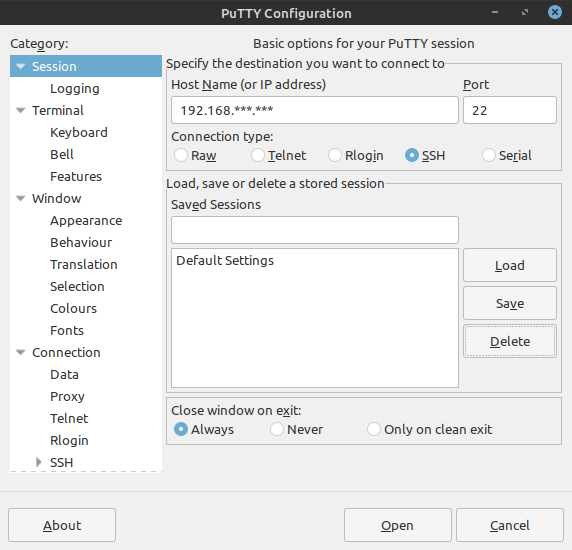
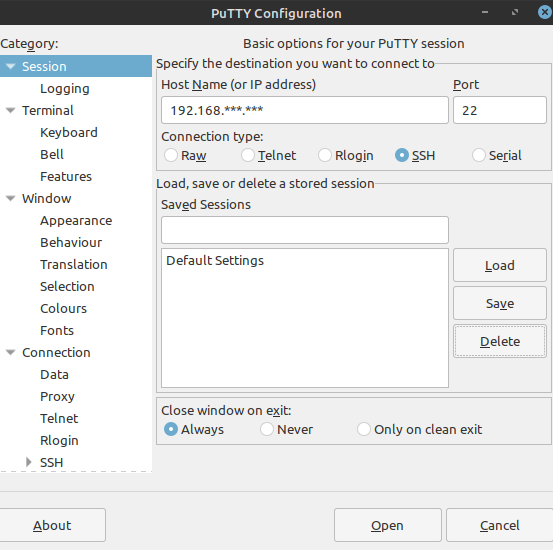
add image

diff --git a/_includes/featured-image.html b/_includes/featured-image.html
@@ -2,9 +2,9 @@
 {%- if page.image %}
 <div class="entry-featured-image">
     {%- if page.imageshadow %}
-    {%- if page.image contains "://" %}{{ page.image }}{%- else %}{%- picture post posts/{{ page.guid }}/{{ page.image }} 235:132 --alt {{ page.title }} --img width="940" height="528" class="featured-image image-shadow" itemprop="image" %}{%- endif %}
+    {%- if page.image contains "://" %}{{ page.image }}{%- else %}{% picture post posts/{{ page.guid }}/{{ page.image }} 235:132 --alt {{ page.title }} --img width="940" height="528" class="featured-image image-shadow" itemprop="image" %}{%- endif %}
     {%- else %}
-    {%- if page.image contains "://" %}{{ page.image }}{%- else %}{%- picture post posts/{{ page.guid }}/{{ page.image }} 235:132 --alt {{ page.title }} --img width="940" height="528" class="featured-image" itemprop="image" %}{%- endif %}
+    {%- if page.image contains "://" %}{{ page.image }}{%- else %}{% picture post posts/{{ page.guid }}/{{ page.image }} 235:132 --alt {{ page.title }} --img width="940" height="528" class="featured-image" itemprop="image" %}{%- endif %}
     {%- endif %}
 </div>
 {%- endif %}
@@ -12,9 +12,9 @@
 {%- if page.image %}
 <div class="entry-featured-image">
 {%- if page.imageshadow %}
-{%- if page.image contains "://" %}{{ page.image }}{%- else %}{%- picture shop shop/{{ page.guid }}/{{ page.image }} 1:1 --alt {{ page.title }} --img width="444" height="444" class="featured-image image-shadow" style="width:550px; height:auto;" itemprop="image" %}{%- endif %}
+{%- if page.image contains "://" %}{{ page.image }}{%- else %}{% picture shop shop/{{ page.guid }}/{{ page.image }} 1:1 --alt {{ page.title }} --img width="444" height="444" class="featured-image image-shadow" itemprop="image" %}{%- endif %}
 {%- else %}
-{%- if page.image contains "://" %}{{ page.image }}{%- else %}{%- picture shop shop/{{ page.guid }}/{{ page.image }} 1:1 --alt {{ page.title }} --img width="444" height="444" class="featured-image" itemprop="image" %}{%- endif %}
+{%- if page.image contains "://" %}{{ page.image }}{%- else %}{% picture shop shop/{{ page.guid }}/{{ page.image }} 1:1 --alt {{ page.title }} --img width="444" height="444" class="featured-image" itemprop="image" %}{%- endif %}
 {%- endif %}
 </div>
 {%- endif %}

diff --git a/_includes/product-image.html b/_includes/product-image.html
@@ -1,15 +1,15 @@
 <div class="productbox">
     <div class="product-small-img">
       {%- for item in page.images | limit:5 %}
-  {%- picture shop shop/{{ page.guid }}/{{ item.image }} --alt {{ item.title }} --img class="gallery-image" itemprop="image" %}
+  {% picture shop shop/{{ page.guid }}/{{ item.image }} --alt {{ item.title }} --img class="gallery-image" itemprop="image" %}
 {%- endfor %}  
     </div>
   <div class="img-product-container">
     {%- for item in page.images | offset:0 limit:1 %}
     {%- if page.imageshadow %}
-    {%- picture shop shop/{{ page.guid }}/{{ item.image }} --alt {{ item.title }} --img id="imageBox" class="image-shadow" style="width:400px; height:auto;" itemprop="image" %}
+    {% picture shop shop/{{ page.guid }}/{{ item.image }} --alt {{ item.title }} --img id="imageBox" class="image-shadow" style="width:400px; height:auto;" itemprop="image" %}
 {%- else %}
-{%- picture shop shop/{{ page.guid }}/{{ item.image }} --alt {{ item.title }} --img id="imageBox" style="width:425px; height:auto;" itemprop="image" %}
+{% picture shop shop/{{ page.guid }}/{{ item.image }} --alt {{ item.title }} --img id="imageBox" style="width:425px; height:auto;" itemprop="image" %}
 {%- endif %}
     {%- endfor %}
   </div>

diff --git a/_data/aliexpress/data.js b/_data/aliexpress/data.js
@@ -21,7 +21,7 @@ module.exports = [
   '1005001874391490',    // 2115 airlink amp v4
   '1005002617485357',    // 2116 Grandir R503
   '1005002782331110',    // 2122 neocollcam z-wave interrupteur
-  '1005002610639133',    // 2124 ecran spi      
+  '33015586094',         // 2124 ecran spi      
   '4000274394108',       // 2125 ventilateur raspberrypi
   '1005002055766609',    // 2126 eviciv ecran 10pouces raspberrypi
   '4000552781660',       // 2119 capteur température digitale

diff --git a/_posts/fr/2021-10-22-test-du-capteur-de-luminosite-intelligent-zss-zk-thl-zigbee-moes.md b/_posts/fr/2021-10-22-test-du-capteur-de-luminosite-intelligent-zss-zk-thl-zigbee-moes.md
@@ -29,7 +29,7 @@ J'ai décidé de tester ce capteur de luminosité intelligent pour apporter une 
 
 La marque **Moes** offrant des produits de qualité/prix (~15euros) correcte mais fonctionnel en a fait un atout pour le choix de celui-ci.
 
-{% include product-embed.html image="/assets/images/posts/24/Thermom-tre-intelligent-Moes-ZigBee-Bluetooth-maille-luminosite-temp-rature-humidit-capteur-Tuya-Smart.webp" title="Thermomètre intelligent Moes ZigBee" brand="Moes" description="Le thermomètre intelligent de luminosité détecte les changements de la lumière ambiante, de la température et de l'humidité en temps réel; Signalez activement à l'utilisateur par l'application smart Life comme protocole Bluetooth intégré." affiliate="_DlVHhaB" %}
+{% include product-embed.html image="Thermom-tre-intelligent-Moes-ZigBee-Bluetooth-maille-luminosite-temp-rature-humidit-capteur-Tuya-Smart.webp" title="Thermomètre intelligent Moes ZigBee" brand="Moes" description="Le thermomètre intelligent de luminosité détecte les changements de la lumière ambiante, de la température et de l'humidité en temps réel; Signalez activement à l'utilisateur par l'application smart Life comme protocole Bluetooth intégré." affiliate="_DlVHhaB" %}
 
 ## **Contenu de la boîte :**
 
@@ -62,4 +62,4 @@ Rien de plus simple en 2 étapes comme la plupart de ce genre de gadget
 
 Une fois de plus Moes innove en proposant un affichage a faible consommation, la qualité des matériaux reste en dessous de ce que sait faire la marque Moes, le fait de ne pouvoir alterner les éléments affichés n'est pas ce qu'il a de plus WAF. Si tu cherches un produit qui t'affiches la luminosité en priorité et qui n'est pas gourmand en pile alors fonce ! car ce capteur Moes 3 en 1 s'intègre facilement dans home-assistant.
 
-{% include product-embed.html image="/assets/images/posts/24/Thermom-tre-intelligent-Moes-ZigBee-Bluetooth-maille-luminosite-temp-rature-humidit-capteur-Tuya-Smart.webp" title="Thermomètre intelligent Moes ZigBee" brand="Moes" description="Le thermomètre intelligent de luminosité détecte les changements de la lumière ambiante, de la température et de l'humidité en temps réel; Signalez activement à l'utilisateur par l'application smart Life comme protocole Bluetooth intégré." affiliate="_DlVHhaB" %}
+{% include product-embed.html image="Thermom-tre-intelligent-Moes-ZigBee-Bluetooth-maille-luminosite-temp-rature-humidit-capteur-Tuya-Smart.webp" title="Thermomètre intelligent Moes ZigBee" brand="Moes" description="Le thermomètre intelligent de luminosité détecte les changements de la lumière ambiante, de la température et de l'humidité en temps réel; Signalez activement à l'utilisateur par l'application smart Life comme protocole Bluetooth intégré." affiliate="_DlVHhaB" %}

diff --git a/_posts/fr/2021-05-19-domotiser-sa-porte-de-garage-pour-5€.md b/_posts/fr/2021-05-19-domotiser-sa-porte-de-garage-pour-5€.md
@@ -30,7 +30,7 @@ Dans cet article je vais vous montrer tout simplement comment domotiser sa porte
 - Homeassistant installé avec esphome
 - Un [module usb FT232]({% link _products/fr/2021-05-19-module-de-conversion-usb-uart-ft232.md %})
 - un [module 7/30V Yunshan Lysignal esp8266 esp-12f]({%- link _products/fr/2021-05-17-relais-7-30v-yunshan-lysignal.md %})
-- Esphome installé sur le système [( voir l’article dédié )]({%- post_url 2021-05-11-esphome-et-homeassistant %})
+- Esphome installé sur le système [( voir l’article dédié )]({%- post_url /fr/2021-05-11-esphome-et-homeassistant %})
 - Savoir créer un nouveau Noeud et le paramétrer
 - device type: Espressif ESP-12E module
 
@@ -95,10 +95,9 @@ et
 
 ## Rendu final dans Homeassistant
 
-{% picture posts/{{ page.guid }}/yunshan-homeassistant.gif --alt Rendu final de esp8266 dans homeassistant %}
+![Rendu final de esp8266 dans homeassistant]({{ site.baseurl }}/assets/images/posts/{{ page.guid }}/yunshan-homeassistant.webp{{ cachebuster }}){: width="499" height="369"}
 
-
-image gif animé sur le fonctionnement du module yunshan 7-30v intégré avec esphome et homeassistant. Voilà un retour complet pour bien domotiser sa porte de garage pour 5€ grâce à l’aide [d’homeassistant et esphome]({%- post_url 2021-05-11-esphome-et-homeassistant %}) du module esp8266 7-30V Yunshan-Lysignal mais attention l’étape d’intégration n’est pas encore fini !
+image gif animé sur le fonctionnement du module yunshan 7-30v intégré avec esphome et homeassistant. Voilà un retour complet pour bien domotiser sa porte de garage pour 5€ grâce à l’aide [d’homeassistant et esphome]({%- post_url /fr/2021-05-11-esphome-et-homeassistant %}) du module esp8266 7-30V Yunshan-Lysignal mais attention l’étape d’intégration n’est pas encore fini !
 
 ## Création de l’automatisation contact sec
 

diff --git a/_posts/fr/2021-09-25-zoneminder-home-assistant-et-machinelearning.md b/_posts/fr/2021-09-25-zoneminder-home-assistant-et-machinelearning.md
@@ -222,7 +222,7 @@ Pour Home Assistant j'ai créé deux nouveaux états, HOME c'est un état quand 
 
 **AVANTAGE:** Par rapport au binary-sensor Zm qui permet de passer d'un mode à l'autre dans HA, le changement d'état est très pratique lorsque l'on veut choisir un autre mode, lorsqu'on à pleins de caméra et surtout simplifie les automatisations dans HA appel à un service sans avoir besoin de faire appel à chaque caméra ou de créer un groupe binary\_sensor Home ou Away dans group.yaml de HA.
 
-![Paramétrer un état dans zoneminder]({{ site.baseurl }}/assets/images/posts/{{ page.guid }}/zoneminder-etat.webp{{ cachebuster }}){: width="820" height="394"}
+![Paramétrer un état dans zoneminder]({{ site.baseurl }}/assets/images/posts/{{ page.guid }}/zoneminder-etat-820.webp{{ cachebuster }}){: width="820" height="394"}
 
 ### 4 - Fonctionnement des Modes dans Zoneminder:
 

diff --git a/_posts/en/2021-09-25-zoneminder-home-assistant-and-machinelearning.md b/_posts/en/2021-09-25-zoneminder-home-assistant-and-machinelearning.md
@@ -224,7 +224,7 @@ For Home Assistant I created two new states, HOME is a state when I am at home, 
 
 **ADVANTAGE:** Compared to the Zm binary-sensor which allows you to switch from one mode to another in HA, the change of state is very practical when you want to choose another mode, when you are full of cameras and above all simplifies automations in HA call a service without needing to call each camera or create a binary\_sensor Home or Away group in HA group.yaml.
 
-![Setting up a report in zoneminder]({{ site.baseurl }}/assets/images/posts/{{ page.guid }}/zoneminder-etat.webp{{ cachebuster }}){: width="820" height="394"}
+![Setting up a report in zoneminder]({{ site.baseurl }}/assets/images/posts/{{ page.guid }}/zoneminder-etat-820.webp{{ cachebuster }}){: width="820" height="394"}
 
 ## 4 - How Modes work in Zoneminder:
 

diff --git a/_posts/fr/2021-05-11-esphome-et-homeassistant.md b/_posts/fr/2021-05-11-esphome-et-homeassistant.md
@@ -47,7 +47,7 @@ Désormais il ne reste plus qu’à appuyer sur le petit **+** en bas à droite 
 - 3 – remplissez les coordonnées de votre wifi en réseau local **2,4Ghz** ( ota pas obligatoire )
 - 4 – finish
 
-![ajout module esphome dans homeassistant]({{ site.baseurl}}/assets/images/posts/{{ page.guid }}/esphome-ajout.webp{{ cachebuster }}){: width="820" height="466"}
+![ajout module esphome dans homeassistant]({{site.baseurl}}/assets/images/posts/{{ page.guid }}/esphome-ajout.webp{{ cachebuster }}){: width="820" height="466"}
 
 
 gif animé lors d’un ajout d’un module dans esphome Maintenant il faut intégrer les entrées ( relais, contacteur, optocoupleur, led, etc …. ), vous en trouvez pas mal sur le site esphome.io

diff --git a/_posts/en/2021-10-01-home-assistant-amber-vs-jeedom-atlas.md b/_posts/en/2021-10-01-home-assistant-amber-vs-jeedom-atlas.md
@@ -85,7 +85,7 @@ _Well not much!_
 
 # let's continue with Jeedom Atlas
 
-{% picture }posts/{{ page.guid }}/Jeedom-Atlas-caracteristique.jpg --alt Jeedom atlas caracteristic --img width="820" height="461" %}
+{% picture posts/{{ page.guid }}/Jeedom-Atlas-caracteristique.jpg --alt Jeedom atlas caracteristic --img width="820" height="461" %}
 
 
 ## Advantage Jeedom Atlas

diff --git a/_posts/fr/2019-12-09-installation-complete-et-securisee-de-jeedom-sur-docker.md b/_posts/fr/2019-12-09-installation-complete-et-securisee-de-jeedom-sur-docker.md
@@ -83,7 +83,7 @@ remplacez **l’adresse ip** par la votre et votre nom d’utilisateur par le vo
 
 **Avec Putty:**
 
-{% picture posts/{{ page.guid }}/connection-putty.png --alt connection à putty %}
+{% picture posts/{{ page.guid }}/connection-putty.png --alt connection à putty --img width="553" height="550" %}
 
 **Ensuite rentrez votre mot de passe.**
 
